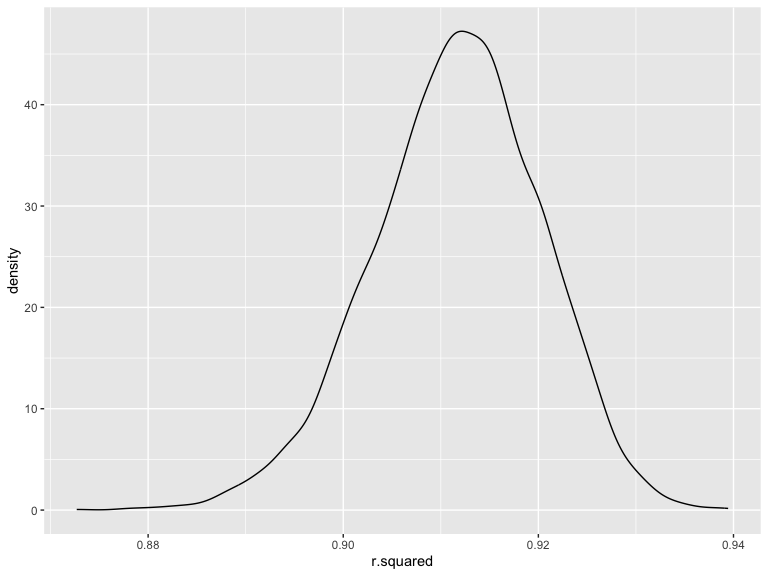
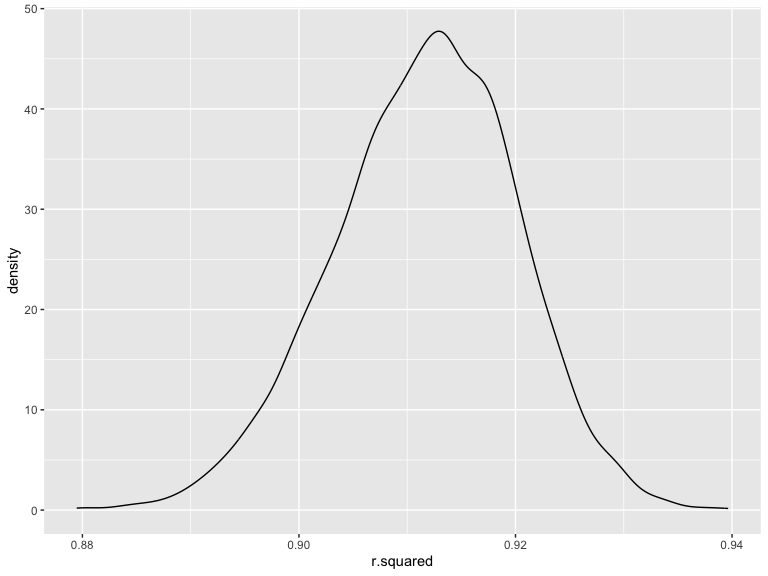
Completed homework

diff --git a/p8105_hw6_zl3118.md b/p8105_hw6_zl3118.md
@@ -3,6 +3,8 @@ p8105_hw6_zl3118
 Shirley Liang
 2022-11-28
 
+### Question 1
+
 ``` r
 weather_df = 
   rnoaa::meteo_pull_monitors(
@@ -85,7 +87,7 @@ bootstrap_results_r %>%
 
 |  ci_lower |  ci_upper |
 |----------:|----------:|
-| 0.8936827 | 0.9271278 |
+| 0.8942084 | 0.9271843 |
 
 ``` r
 bootstrap_results_log %>% 
@@ -98,10 +100,12 @@ bootstrap_results_log %>%
 
 | ci_lower | ci_upper |
 |---------:|---------:|
-| 1.964711 | 2.059229 |
+| 1.964839 | 2.058145 |
 
 The 95% confidence intervals are `(0.8940, 0.9274)` and
 `(1.9657,2.0586)` for `r-squared` and `log(beta0*beta1)`, respectively.
+
+### Question 2
 
 ``` r
 homicides = read_csv("./homicide-data.csv")
@@ -249,6 +253,8 @@ race. The cities on the right side with adjusted OR greater than one
 have the reversed finding. The odds of having a resolved homicide higher
 among male victims than that of female victims, adjusting for age and
 race.
+
+### Question 3
 
 ``` r
 birthweight_df = read_csv("./birthweight.csv")
